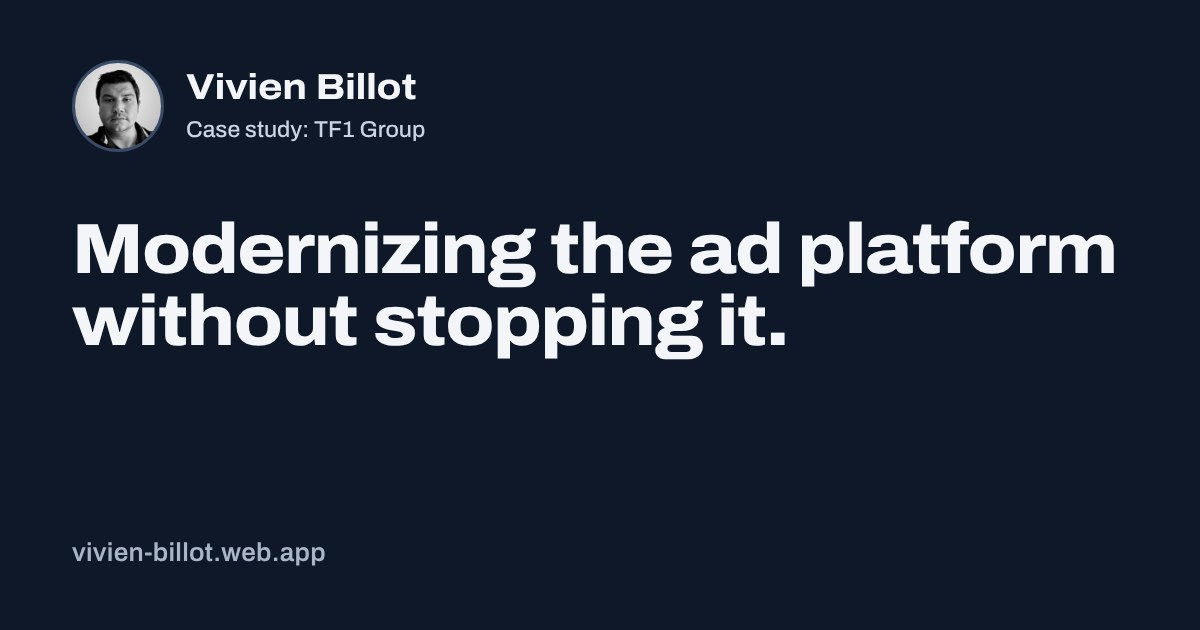
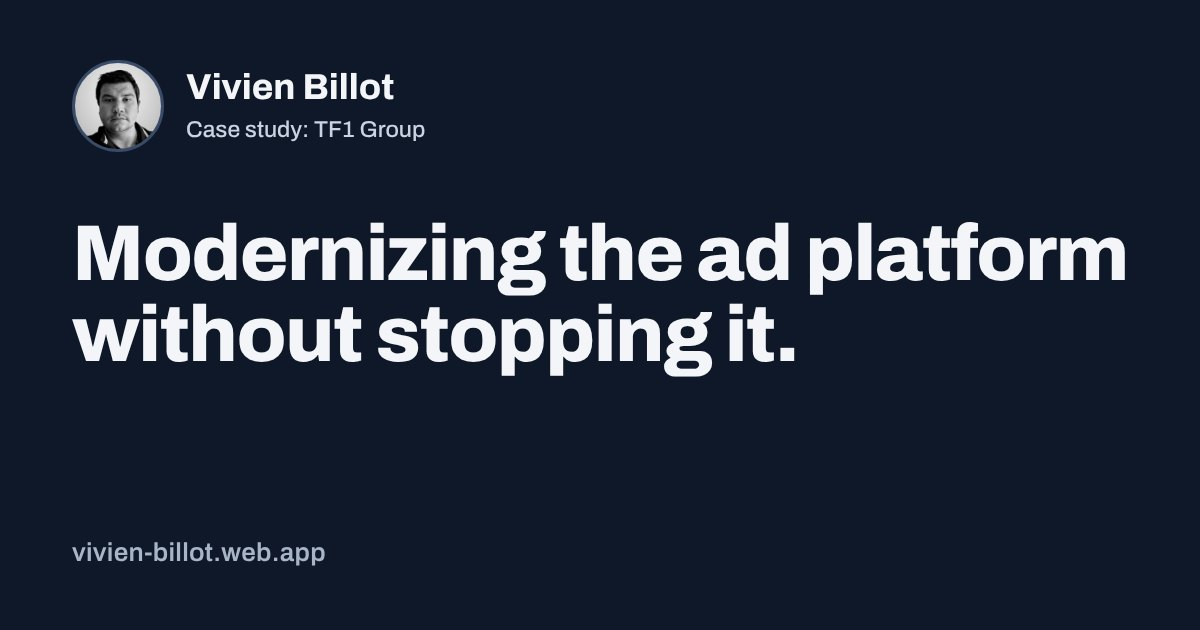
Render share images at the font's normal width
The Open Graph images used the same widened Archivo as the old headings.
They are re-rendered at normal width, and the image version changes so
LinkedIn and other crawlers fetch the new files.

Claude-Session: https://claude.ai/code/session_01MTGZCdJkTqEGeZ6CWYWoz6

Changed region(s): [[0.0617, 0.3317, 0.9558, 0.6032], [0.1542, 0.0905, 0.37, 0.181]]

diff --git a/src/app/core/services/seo.service.ts b/src/app/core/services/seo.service.ts
@@ -6,7 +6,7 @@ const MANAGED_LINK_ATTRIBUTE = 'data-seo';
 const PERSON_SCRIPT_ID = 'person-json-ld';
 const DEFAULT_SOCIAL_IMAGE = '/og-image.jpg';
 /** Bump whenever a social image changes: LinkedIn and others cache previews by image URL. */
-const SOCIAL_IMAGE_VERSION = '2026-10-20-plain';
+const SOCIAL_IMAGE_VERSION = '2026-10-21-normal-width';
 const AUTHOR = 'Vivien Billot';
 const PERSON_ID = `${SITE_URL}/#person`;
 const WEBSITE_ID = `${SITE_URL}/#website`;
